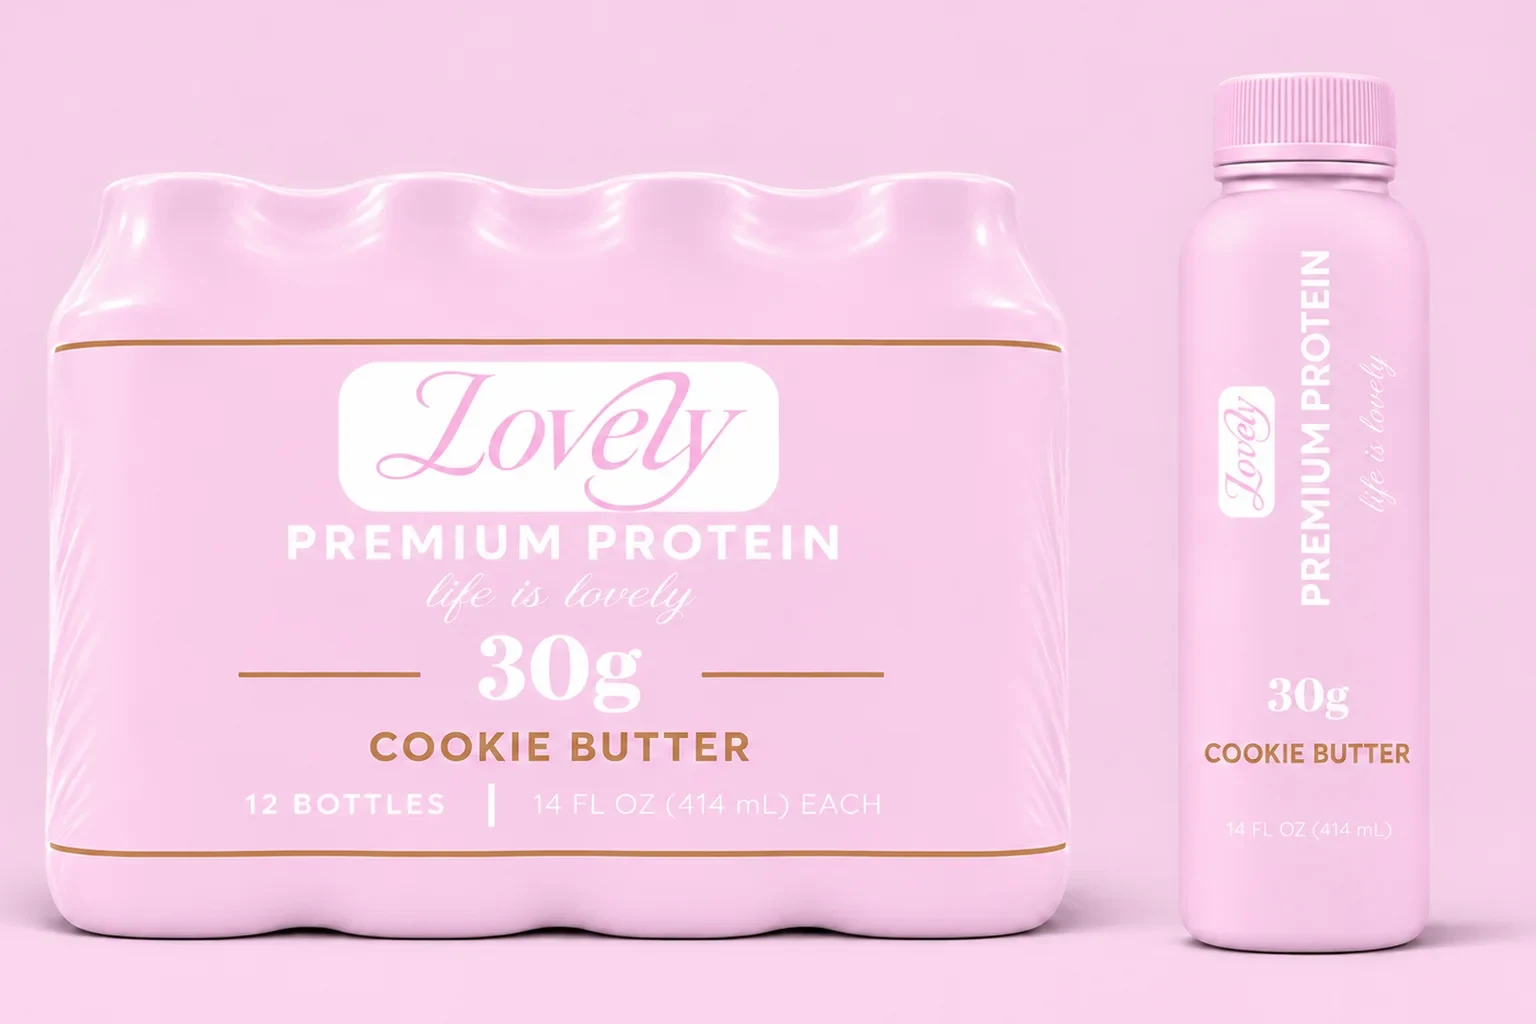
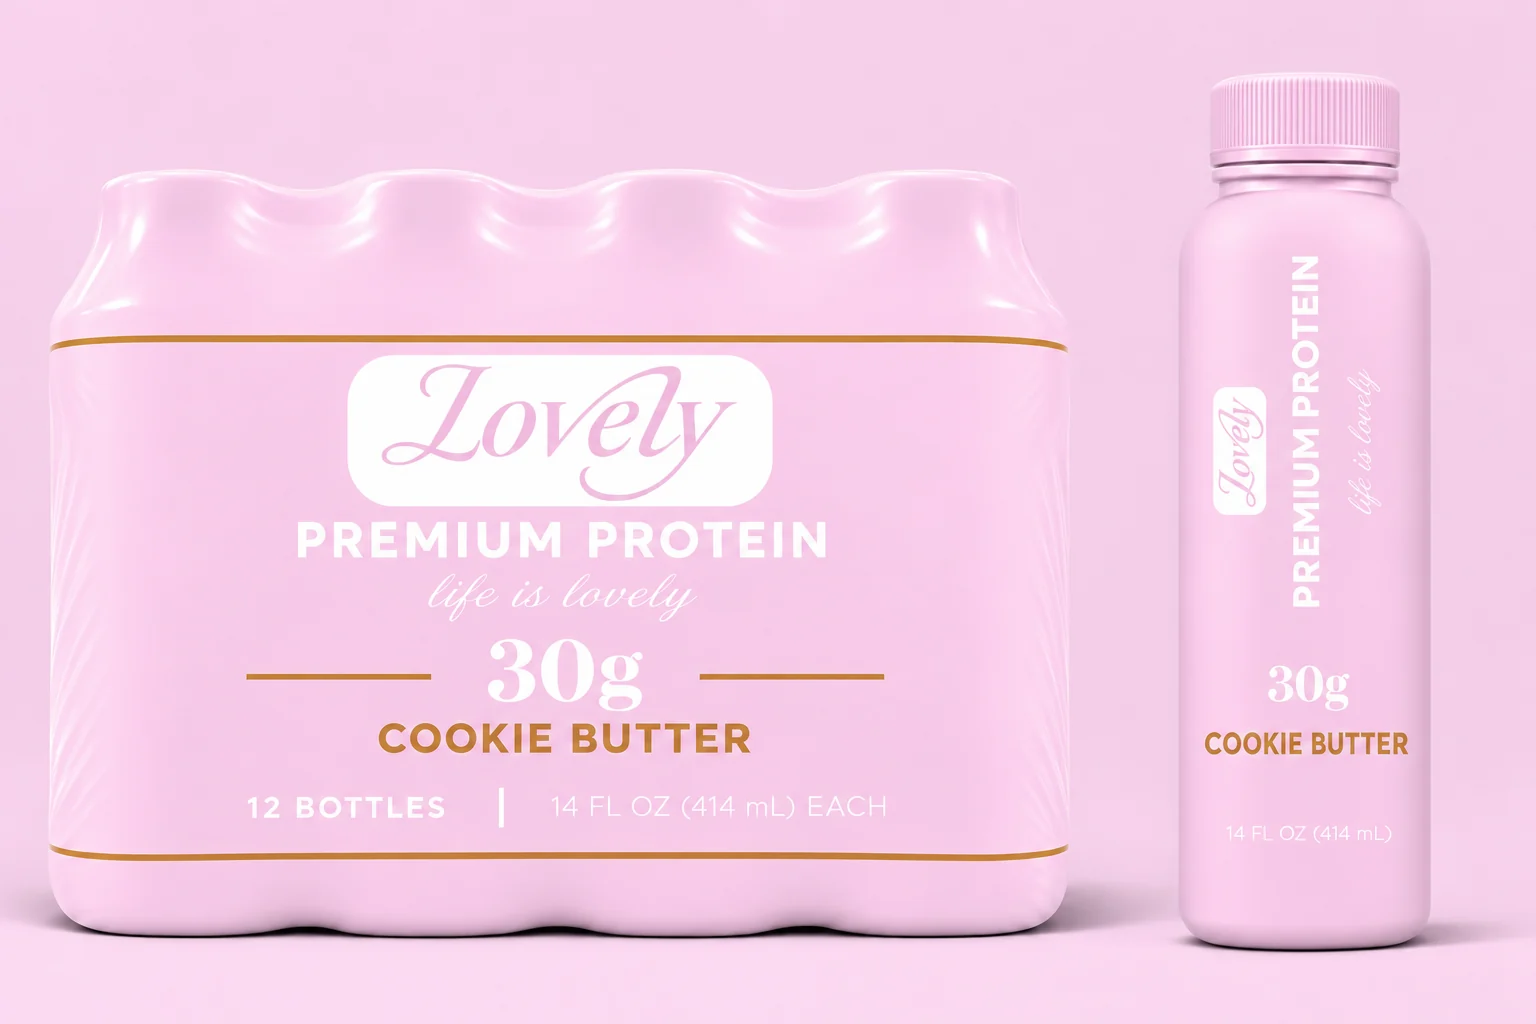
New 30g 12-pack photos for all five flavors
Claude-Session: https://claude.ai/code/session_01AzpPYfJ2iNTin5mbwrihoY

diff --git a/products.html b/products.html
@@ -1296,7 +1296,7 @@ header.top { background: var(--bg) !important; backdrop-filter: none !important;
   </div>
   <div class="st-grid" id="st-grid">
 <article class="st-card" data-cat="shakes" data-price="101.99" data-order="0" data-new="0" data-k="choc" data-p="30">
-  <a class="st-img bottle" href="shop.html?f=choc" aria-label="Chocolate protein shake"><img class="alt" src="img/pack_choc_sm.webp" data-30="img/pack_choc_sm.webp" data-50="img/pack_swoll_choc_sm.webp?v=2" alt="" width="768" height="512" loading="lazy" aria-hidden="true"><img class="main" src="img/b_choc.webp?v=3" data-30="img/b_choc.webp?v=3" data-50="img/sw_choc_lg.webp" alt="Chocolate protein shake, 30g protein" width="204" height="700" loading="lazy"><span class="st-badges"></span></a>
+  <a class="st-img bottle" href="shop.html?f=choc" aria-label="Chocolate protein shake"><img class="alt" src="img/pack_choc_sm.webp?v=3" data-30="img/pack_choc_sm.webp?v=3" data-50="img/pack_swoll_choc_sm.webp?v=2" alt="" width="768" height="512" loading="lazy" aria-hidden="true"><img class="main" src="img/b_choc.webp?v=3" data-30="img/b_choc.webp?v=3" data-50="img/sw_choc_lg.webp" alt="Chocolate protein shake, 30g protein" width="204" height="700" loading="lazy"><span class="st-badges"></span></a>
   <div class="st-body">
     <h3><a href="shop.html?f=choc">Chocolate Protein Shake</a></h3>
     <p class="st-var"><span data-var>24 bottles · 30g protein</span></p>
@@ -1306,7 +1306,7 @@ header.top { background: var(--bg) !important; backdrop-filter: none !important;
   </div>
 </article>
 <article class="st-card" data-cat="shakes" data-price="101.99" data-order="1" data-new="0" data-k="van" data-p="30">
-  <a class="st-img bottle" href="shop.html?f=van" aria-label="Vanilla protein shake"><img class="alt" src="img/pack_van_sm.webp" data-30="img/pack_van_sm.webp" data-50="img/pack_swoll_van_sm.webp?v=2" alt="" width="768" height="512" loading="lazy" aria-hidden="true"><img class="main" src="img/b_van.webp?v=3" data-30="img/b_van.webp?v=3" data-50="img/sw_van_lg.webp" alt="Vanilla protein shake, 30g protein" width="204" height="700" loading="lazy"><span class="st-badges"></span></a>
+  <a class="st-img bottle" href="shop.html?f=van" aria-label="Vanilla protein shake"><img class="alt" src="img/pack_van_sm.webp?v=3" data-30="img/pack_van_sm.webp?v=3" data-50="img/pack_swoll_van_sm.webp?v=2" alt="" width="768" height="512" loading="lazy" aria-hidden="true"><img class="main" src="img/b_van.webp?v=3" data-30="img/b_van.webp?v=3" data-50="img/sw_van_lg.webp" alt="Vanilla protein shake, 30g protein" width="204" height="700" loading="lazy"><span class="st-badges"></span></a>
   <div class="st-body">
     <h3><a href="shop.html?f=van">Vanilla Protein Shake</a></h3>
     <p class="st-var"><span data-var>24 bottles · 30g protein</span></p>
@@ -1316,7 +1316,7 @@ header.top { background: var(--bg) !important; backdrop-filter: none !important;
   </div>
 </article>
 <article class="st-card" data-cat="shakes" data-price="101.99" data-order="2" data-new="0" data-k="pb" data-p="30">
-  <a class="st-img bottle" href="shop.html?f=pb" aria-label="Peanut Butter protein shake"><img class="alt" src="img/pack_pb_sm.webp" data-30="img/pack_pb_sm.webp" data-50="img/pack_swoll_pb_sm.webp?v=2" alt="" width="768" height="512" loading="lazy" aria-hidden="true"><img class="main" src="img/b_pb.webp?v=3" data-30="img/b_pb.webp?v=3" data-50="img/sw_pb_lg.webp" alt="Peanut Butter protein shake, 30g protein" width="204" height="700" loading="lazy"><span class="st-badges"></span></a>
+  <a class="st-img bottle" href="shop.html?f=pb" aria-label="Peanut Butter protein shake"><img class="alt" src="img/pack_pb_sm.webp?v=3" data-30="img/pack_pb_sm.webp?v=3" data-50="img/pack_swoll_pb_sm.webp?v=2" alt="" width="768" height="512" loading="lazy" aria-hidden="true"><img class="main" src="img/b_pb.webp?v=3" data-30="img/b_pb.webp?v=3" data-50="img/sw_pb_lg.webp" alt="Peanut Butter protein shake, 30g protein" width="204" height="700" loading="lazy"><span class="st-badges"></span></a>
   <div class="st-body">
     <h3><a href="shop.html?f=pb">Peanut Butter Protein Shake</a></h3>
     <p class="st-var"><span data-var>24 bottles · 30g protein</span></p>
@@ -1326,7 +1326,7 @@ header.top { background: var(--bg) !important; backdrop-filter: none !important;
   </div>
 </article>
 <article class="st-card" data-cat="shakes" data-price="101.99" data-order="3" data-new="1" data-k="matcha" data-p="30">
-  <a class="st-img bottle" href="shop.html?f=matcha" aria-label="Matcha protein shake"><img class="alt" src="img/pack_matcha_sm.webp" data-30="img/pack_matcha_sm.webp" data-50="img/pack_swoll_matcha_sm.webp?v=2" alt="" width="768" height="512" loading="lazy" aria-hidden="true"><img class="main" src="img/b_matcha.webp?v=3" data-30="img/b_matcha.webp?v=3" data-50="img/sw_matcha_lg.webp" alt="Matcha protein shake, 30g protein" width="204" height="700" loading="lazy"><span class="st-badges"><em class="nw">New</em></span></a>
+  <a class="st-img bottle" href="shop.html?f=matcha" aria-label="Matcha protein shake"><img class="alt" src="img/pack_matcha_sm.webp?v=3" data-30="img/pack_matcha_sm.webp?v=3" data-50="img/pack_swoll_matcha_sm.webp?v=2" alt="" width="768" height="512" loading="lazy" aria-hidden="true"><img class="main" src="img/b_matcha.webp?v=3" data-30="img/b_matcha.webp?v=3" data-50="img/sw_matcha_lg.webp" alt="Matcha protein shake, 30g protein" width="204" height="700" loading="lazy"><span class="st-badges"><em class="nw">New</em></span></a>
   <div class="st-body">
     <h3><a href="shop.html?f=matcha">Matcha Protein Shake</a></h3>
     <p class="st-var"><span data-var>24 bottles · 30g protein</span></p>
@@ -1336,7 +1336,7 @@ header.top { background: var(--bg) !important; backdrop-filter: none !important;
   </div>
 </article>
 <article class="st-card" data-cat="shakes" data-price="101.99" data-order="4" data-new="1" data-k="cbutter" data-p="30">
-  <a class="st-img bottle" href="shop.html?f=cbutter" aria-label="Cookie Butter protein shake"><img class="alt" src="img/pack_cbutter_sm.webp" data-30="img/pack_cbutter_sm.webp" data-50="img/pack_swoll_cbutter_sm.webp?v=2" alt="" width="768" height="512" loading="lazy" aria-hidden="true"><img class="main" src="img/b_cbutter.webp?v=3" data-30="img/b_cbutter.webp?v=3" data-50="img/sw_cbutter_lg.webp" alt="Cookie Butter protein shake, 30g protein" width="204" height="700" loading="lazy"><span class="st-badges"><em class="nw">New</em></span></a>
+  <a class="st-img bottle" href="shop.html?f=cbutter" aria-label="Cookie Butter protein shake"><img class="alt" src="img/pack_cbutter_sm.webp?v=3" data-30="img/pack_cbutter_sm.webp?v=3" data-50="img/pack_swoll_cbutter_sm.webp?v=2" alt="" width="768" height="512" loading="lazy" aria-hidden="true"><img class="main" src="img/b_cbutter.webp?v=3" data-30="img/b_cbutter.webp?v=3" data-50="img/sw_cbutter_lg.webp" alt="Cookie Butter protein shake, 30g protein" width="204" height="700" loading="lazy"><span class="st-badges"><em class="nw">New</em></span></a>
   <div class="st-body">
     <h3><a href="shop.html?f=cbutter">Cookie Butter Protein Shake</a></h3>
     <p class="st-var"><span data-var>24 bottles · 30g protein</span></p>

diff --git a/index.html b/index.html
@@ -1251,7 +1251,7 @@ header.top { background: var(--bg) !important; backdrop-filter: none !important;
   <div class="reviews"><figure class="rev"><div class="stars" aria-hidden="true"><svg viewBox="0 0 24 24" width="17" height="17" aria-hidden="true"><path d="m12 3 2.7 5.6 6.1.8-4.5 4.2 1.1 6.1L12 16.8l-5.4 2.9 1.1-6.1-4.5-4.2 6.1-.8z" fill="currentColor"/></svg><svg viewBox="0 0 24 24" width="17" height="17" aria-hidden="true"><path d="m12 3 2.7 5.6 6.1.8-4.5 4.2 1.1 6.1L12 16.8l-5.4 2.9 1.1-6.1-4.5-4.2 6.1-.8z" fill="currentColor"/></svg><svg viewBox="0 0 24 24" width="17" height="17" aria-hidden="true"><path d="m12 3 2.7 5.6 6.1.8-4.5 4.2 1.1 6.1L12 16.8l-5.4 2.9 1.1-6.1-4.5-4.2 6.1-.8z" fill="currentColor"/></svg><svg viewBox="0 0 24 24" width="17" height="17" aria-hidden="true"><path d="m12 3 2.7 5.6 6.1.8-4.5 4.2 1.1 6.1L12 16.8l-5.4 2.9 1.1-6.1-4.5-4.2 6.1-.8z" fill="currentColor"/></svg><svg viewBox="0 0 24 24" width="17" height="17" aria-hidden="true"><path d="m12 3 2.7 5.6 6.1.8-4.5 4.2 1.1 6.1L12 16.8l-5.4 2.9 1.1-6.1-4.5-4.2 6.1-.8z" fill="currentColor"/></svg></div><blockquote><p>Tastes like a chocolate milkshake, not a protein shake. I keep one in my Pilates bag.</p></blockquote><figcaption><img src="img/b_choc.webp?v=3" alt="" width="30" height="78" loading="lazy"><span><b>Sample reviewer</b><small>Drank Chocolate</small></span></figcaption></figure><figure class="rev"><div class="stars" aria-hidden="true"><svg viewBox="0 0 24 24" width="17" height="17" aria-hidden="true"><path d="m12 3 2.7 5.6 6.1.8-4.5 4.2 1.1 6.1L12 16.8l-5.4 2.9 1.1-6.1-4.5-4.2 6.1-.8z" fill="currentColor"/></svg><svg viewBox="0 0 24 24" width="17" height="17" aria-hidden="true"><path d="m12 3 2.7 5.6 6.1.8-4.5 4.2 1.1 6.1L12 16.8l-5.4 2.9 1.1-6.1-4.5-4.2 6.1-.8z" fill="currentColor"/></svg><svg viewBox="0 0 24 24" width="17" height="17" aria-hidden="true"><path d="m12 3 2.7 5.6 6.1.8-4.5 4.2 1.1 6.1L12 16.8l-5.4 2.9 1.1-6.1-4.5-4.2 6.1-.8z" fill="currentColor"/></svg><svg viewBox="0 0 24 24" width="17" height="17" aria-hidden="true"><path d="m12 3 2.7 5.6 6.1.8-4.5 4.2 1.1 6.1L12 16.8l-5.4 2.9 1.1-6.1-4.5-4.2 6.1-.8z" fill="currentColor"/></svg><svg viewBox="0 0 24 24" width="17" height="17" aria-hidden="true"><path d="m12 3 2.7 5.6 6.1.8-4.5 4.2 1.1 6.1L12 16.8l-5.4 2.9 1.1-6.1-4.5-4.2 6.1-.8z" fill="currentColor"/></svg></div><blockquote><p>Finally a matcha with real protein. It&#x27;s my 3pm coffee-shop order now.</p></blockquote><figcaption><img src="img/b_matcha.webp?v=3" alt="" width="30" height="78" loading="lazy"><span><b>Sample reviewer</b><small>Drank Matcha</small></span></figcaption></figure><figure class="rev"><div class="stars" aria-hidden="true"><svg viewBox="0 0 24 24" width="17" height="17" aria-hidden="true"><path d="m12 3 2.7 5.6 6.1.8-4.5 4.2 1.1 6.1L12 16.8l-5.4 2.9 1.1-6.1-4.5-4.2 6.1-.8z" fill="currentColor"/></svg><svg viewBox="0 0 24 24" width="17" height="17" aria-hidden="true"><path d="m12 3 2.7 5.6 6.1.8-4.5 4.2 1.1 6.1L12 16.8l-5.4 2.9 1.1-6.1-4.5-4.2 6.1-.8z" fill="currentColor"/></svg><svg viewBox="0 0 24 24" width="17" height="17" aria-hidden="true"><path d="m12 3 2.7 5.6 6.1.8-4.5 4.2 1.1 6.1L12 16.8l-5.4 2.9 1.1-6.1-4.5-4.2 6.1-.8z" fill="currentColor"/></svg><svg viewBox="0 0 24 24" width="17" height="17" aria-hidden="true"><path d="m12 3 2.7 5.6 6.1.8-4.5 4.2 1.1 6.1L12 16.8l-5.4 2.9 1.1-6.1-4.5-4.2 6.1-.8z" fill="currentColor"/></svg><svg viewBox="0 0 24 24" width="17" height="17" aria-hidden="true"><path d="m12 3 2.7 5.6 6.1.8-4.5 4.2 1.1 6.1L12 16.8l-5.4 2.9 1.1-6.1-4.5-4.2 6.1-.8z" fill="currentColor"/></svg></div><blockquote><p>I put it straight in my Creami. Best protein ice cream I&#x27;ve made.</p></blockquote><figcaption><img src="img/b_van.webp?v=3" alt="" width="30" height="78" loading="lazy"><span><b>Sample reviewer</b><small>Drank Vanilla</small></span></figcaption></figure></div>
 </div></section>
 <section class="matcha-sec pb-sec" id="peanut-butter" aria-labelledby="h-pb"><div class="wrap matcha-in">
-  <img data-p30="pack_pb" data-p50="pack_swoll_pb" src="img/pack_pb.webp" srcset="img/pack_pb_sm.webp 768w, img/pack_pb.webp 1536w" sizes="(max-width: 860px) 92vw, 55vw" alt="Lovely Peanut Butter protein shake: a 12-bottle pack and bottle" width="1536" height="1024" loading="lazy">
+  <img data-p30="pack_pb" data-p50="pack_swoll_pb" src="img/pack_pb.webp?v=3" srcset="img/pack_pb_sm.webp?v=3 768w, img/pack_pb.webp?v=3 1536w" sizes="(max-width: 860px) 92vw, 55vw" alt="Lovely Peanut Butter protein shake: a 12-bottle pack and bottle" width="1536" height="1024" loading="lazy">
   <div><span class="tag new">Launch flavor</span><h2 id="h-pb">Peanut Butter. <em>Salty-sweet, like you.</em></h2>
     <p class="lead">Tastes like a peanut butter milkshake.</p>
     <ul class="mach-facts"><li>30g protein</li><li>170 calories</li><li>Zero lactose</li></ul>
@@ -1259,7 +1259,7 @@ header.top { background: var(--bg) !important; backdrop-filter: none !important;
     <div class="ctas"><button type="button" class="add" data-add="pb">Add Peanut Butter to box</button><button type="button" class="btn alt" data-drink="pb">Nutrition facts</button></div></div>
 </div></section>
 <section class="matcha-sec" id="matcha" aria-labelledby="h-matcha"><div class="wrap matcha-in">
-  <img data-p30="pack_matcha" data-p50="pack_swoll_matcha" src="img/pack_matcha.webp" srcset="img/pack_matcha_sm.webp 768w, img/pack_matcha.webp 1536w" sizes="(max-width: 860px) 92vw, 55vw" alt="Lovely 30g Matcha protein shake: a pink 12-bottle pack and bottle with matcha powder and tea leaves" width="1536" height="1024" loading="lazy">
+  <img data-p30="pack_matcha" data-p50="pack_swoll_matcha" src="img/pack_matcha.webp?v=3" srcset="img/pack_matcha_sm.webp?v=3 768w, img/pack_matcha.webp?v=3 1536w" sizes="(max-width: 860px) 92vw, 55vw" alt="Lovely 30g Matcha protein shake: a pink 12-bottle pack and bottle with matcha powder and tea leaves" width="1536" height="1024" loading="lazy">
   <div><span class="tag new">New</span><h2 id="h-matcha">Matcha, <em>now with 30g protein.</em></h2>
     <p class="lead">The coffee-shop order, minus the line. Other protein matchas have about 10g. Cute.</p>
     <ul class="mach-facts"><li>30g protein</li><li>Natural caffeine</li><li>170 calories</li></ul>

diff --git a/shop.html b/shop.html
@@ -1222,7 +1222,7 @@ header.top { background: var(--bg) !important; backdrop-filter: none !important;
 </aside><main id="main">
 <section class="pdp" aria-labelledby="pdp-h"><div class="wrap pdp-grid">
   <div class="pdp-gal">
-    <div class="pdp-main"><img id="pdp-img" src="img/pack_choc.webp" alt="Chocolate protein shake, 30g, with its 12-bottle pack" width="1536" height="1024" fetchpriority="high"></div>
+    <div class="pdp-main"><img id="pdp-img" src="img/pack_choc.webp?v=3" alt="Chocolate protein shake, 30g, with its 12-bottle pack" width="1536" height="1024" fetchpriority="high"></div>
     <div class="pdp-thumbs" id="pdp-thumbs" role="group" aria-label="Product photos"></div>
   </div>
   <div class="pdp-info">
@@ -2085,8 +2085,8 @@ header.top { background: var(--bg) !important; backdrop-filter: none !important;
   var q = new URLSearchParams(location.search), st = { f: N[q.get("f")] ? q.get("f") : "choc", p: q.get("p") === "50" ? 50 : 30, plan: "sub", img: 0 };
   function m(v) { return "$" + v.toFixed(2); }
   function pics() { var f = st.f, w = st.p === 50;
-    if (f === "mix") return [["img/lineup_mix.webp", "Protein shakes in every flavor, 30g and 50g bottles", 0], ["img/size_compare.webp", "30g and 50g bottles side by side", 0], ["img/pack_choc.webp", "A 12-bottle pack", 0]];
-    return [[w ? "img/pack_swoll_" + f + ".webp?v=2" : "img/pack_" + f + ".webp", N[f] + " protein shake, " + st.p + "g, with its pack", 0],
+    if (f === "mix") return [["img/lineup_mix.webp", "Protein shakes in every flavor, 30g and 50g bottles", 0], ["img/size_compare.webp", "30g and 50g bottles side by side", 0], ["img/pack_choc.webp?v=3", "A 12-bottle pack", 0]];
+    return [[w ? "img/pack_swoll_" + f + ".webp?v=2" : "img/pack_" + f + ".webp?v=3", N[f] + " protein shake, " + st.p + "g, with its pack", 0],
       [w ? "img/sw_" + f + "_lg.webp" : "img/b_" + f + ".webp?v=3", N[f] + " protein shake bottle, " + st.p + "g protein", 1],
       ["img/size_compare.webp", "30g and 50g bottles side by side", 0], ["img/lineup_mix.webp", "Every flavor in 30g and 50g bottles", 0]]; }
   function draw() {
